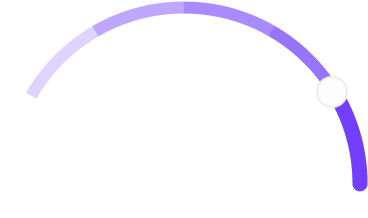
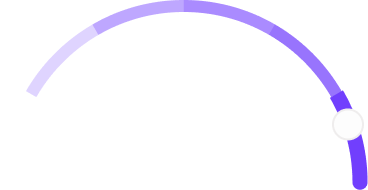
fix bug where the right uv quality  wasn't made

diff --git a/src/app/weather/secondary-info/quality/quality.ts b/src/app/weather/secondary-info/quality/quality.ts
@@ -13,10 +13,11 @@ export class Quality {
   uvFixed = computed(() => this.uv().toFixed(0));
   uvInfo = computed(() => {
     const num = parseInt(this.uvFixed());
-    if (num <= 2) return QUALITYCODE[2];
-    if (num <= 5 && num >= 3) return QUALITYCODE[3 - 5];
-    if (num === 6 || num === 7) return QUALITYCODE[6 - 7];
-    if (num >= 8) return QUALITYCODE[8];
+    if (num <= 2) return QUALITYCODE['2'];
+    if (num <= 5) return QUALITYCODE['3-5'];
+    if (num <= 7) return QUALITYCODE['6-7'];
+    if (num >= 8) return QUALITYCODE['8'];
+
     return { url: '/assets/quality/low.png', name: 'خوب' };
   });
 }

diff --git a/src/app/weather/secondary-info/secondary-info.ts b/src/app/weather/secondary-info/secondary-info.ts
@@ -1,4 +1,4 @@
-import { Component, computed, inject } from '@angular/core';
+import { Component, computed, inject, signal } from '@angular/core';
 import { WeatherService } from '../weather.service';
 import { Clock } from './clock/clock';
 import { Quality } from './quality/quality';
